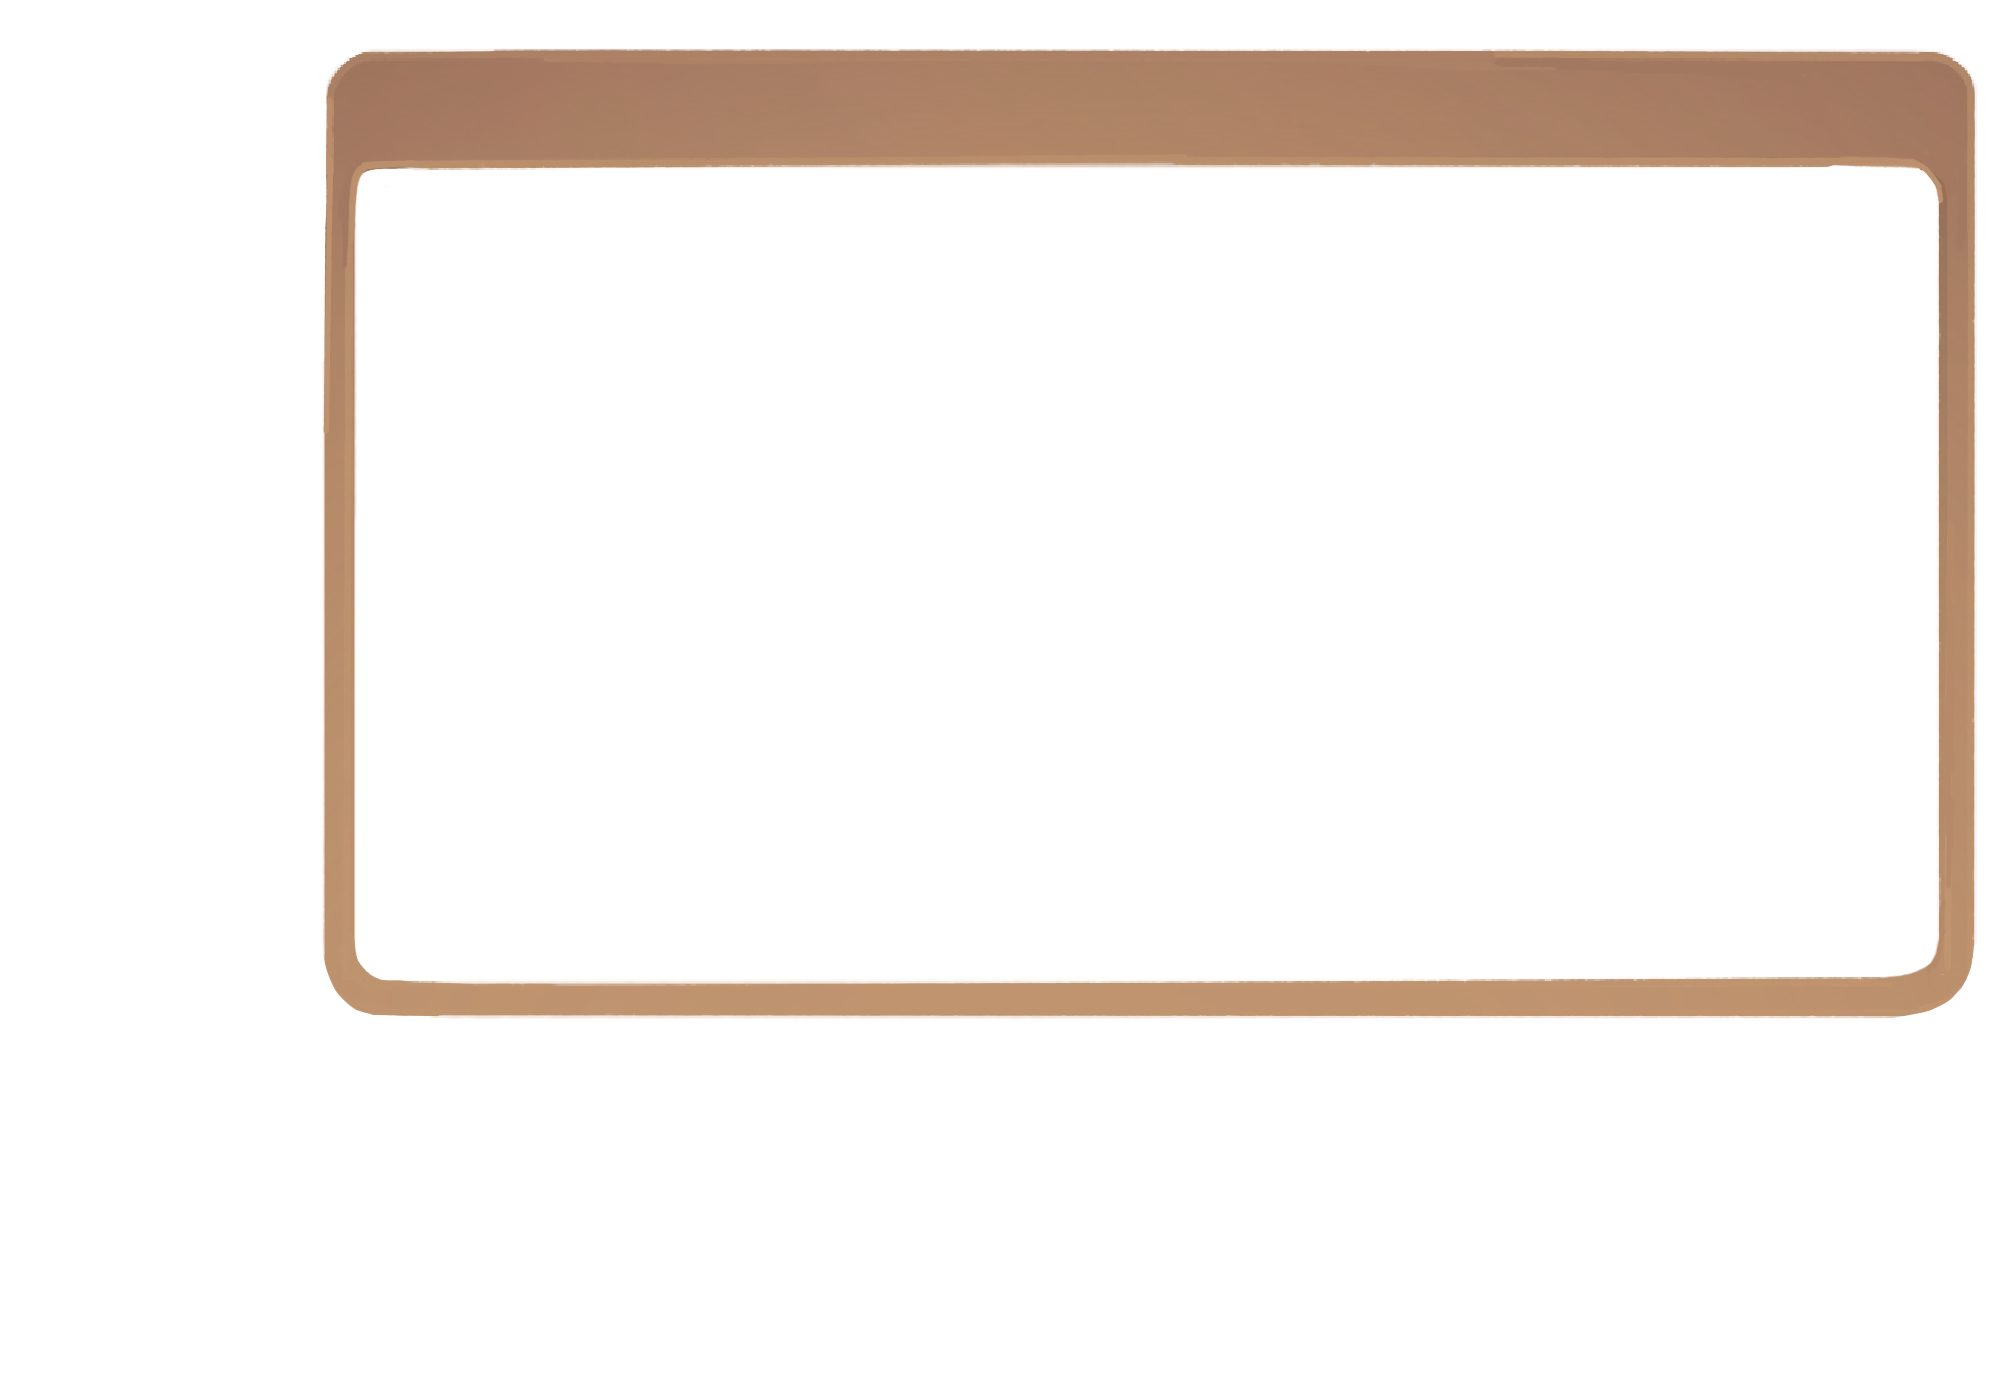
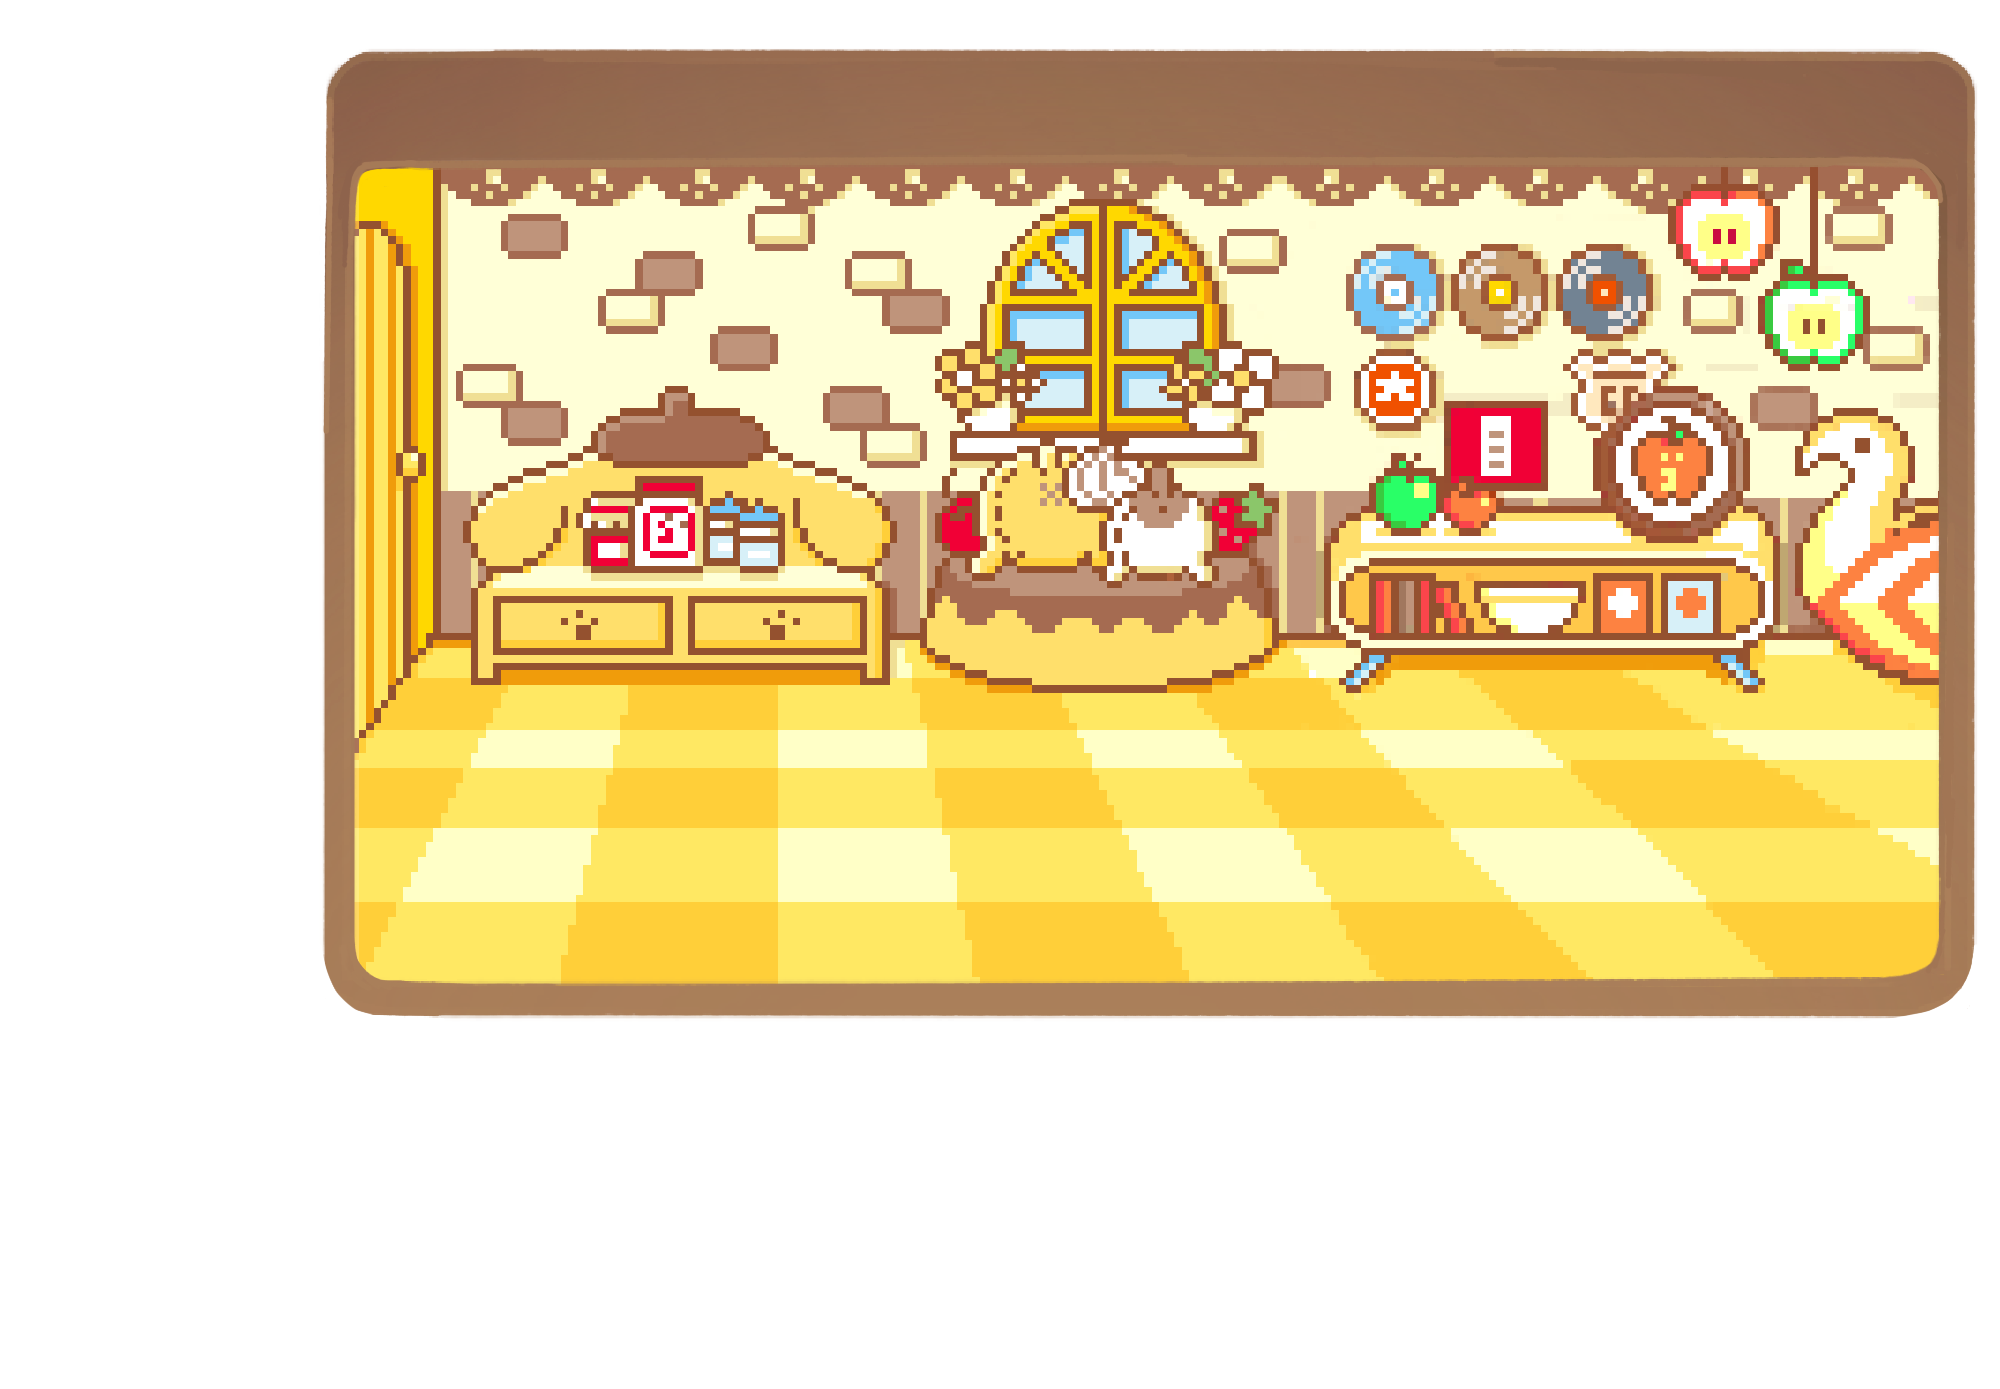
shop has been made, slight tweak to ingame screen

diff --git a/src/Shop.java b/src/Shop.java
@@ -1,5 +1,127 @@
-//import javax.swing.*;
-//
-//public class Shop extends JLayeredPane {
-//}
-////
+package src;
+
+import javax.swing.*;
+import java.awt.*;
+import java.awt.event.ActionEvent;
+import java.awt.event.ActionListener;
+
+public class Shop extends JLayeredPane {
+    private Font customFont;
+    private CardLayout mainCardLayout;
+    private JPanel mainPanel;
+    private CardLayout shopCardLayout;
+    private JPanel shopPanel;
+
+    public Shop(Font customFont, CardLayout mainCardLayout, JPanel mainPanel) {
+        this.customFont = customFont;
+        this.mainCardLayout = mainCardLayout;
+        this.mainPanel = mainPanel;
+        setPreferredSize(new Dimension(1080, 750));
+
+        setupBackground();
+
+        this.shopCardLayout = new CardLayout();
+        this.shopPanel = new JPanel(shopCardLayout);
+        shopPanel.setOpaque(false); // Make transparent
+        shopPanel.setBounds(0, 0, 1080, 750);
+        add(shopPanel, Integer.valueOf(2)); // Content above background
+
+        JLayeredPane page1 = createShopPage1();
+        JLayeredPane page2 = createShopPage2();
+
+        shopPanel.add(page1, "Page 1");
+        shopPanel.add(page2, "Page 2");
+
+        shopCardLayout.show(shopPanel, "Page 1");
+
+        JButton homeButton = MainScreen.buttonCreate(800, 50, 192, 64, "resources/home_button.png", "resources/home_button_clicked.png", "InGame");
+        homeButton.addActionListener(e -> {
+            resetToFirstPage();
+            mainCardLayout.show(mainPanel, "InGame");
+        });
+        add(homeButton, Integer.valueOf(3));
+    }
+
+    private void setupBackground() {
+        // background grid
+        ImageIcon background = new ImageIcon("resources/grid.png");
+        JLabel backgroundLabel = new JLabel(background);
+        backgroundLabel.setBounds(0, 0, 1080, 750);
+        add(backgroundLabel, Integer.valueOf(0));
+
+        // shop bg
+        ImageIcon shopBG = new ImageIcon("resources/shop_bg.png");
+        JLabel bgLabel = new JLabel(shopBG);
+        bgLabel.setBounds(0, -15, 1080, 750);
+        add(bgLabel, Integer.valueOf(1));
+    }
+
+    private JLayeredPane createShopPage1() {
+        JLayeredPane page = new JLayeredPane();
+        page.setPreferredSize(new Dimension(1080, 750));
+        page.setOpaque(false);
+
+        JButton item1 = createShopItem("resources/item_image.png", 200, 130);
+        page.add(item1, Integer.valueOf(2));
+
+        JButton item2 = createShopItem("resources/item_image.png", 460,130);
+        page.add(item2, Integer.valueOf(2));
+
+        JButton item3 = createShopItem("resources/item_image.png", 720, 130);
+        page.add(item3, Integer.valueOf(2));
+
+        JButton item4 = createShopItem("resources/item_image.png", 200, 370);
+        page.add(item4, Integer.valueOf(2));
+
+        JButton item5 = createShopItem("resources/item_image.png", 460, 370);
+        page.add(item5, Integer.valueOf(2));
+
+        JButton item6 = createShopItem("resources/item_image.png", 720, 370);
+        page.add(item6, Integer.valueOf(2));
+
+        JButton nextPage = MainScreen.buttonCreate(700, 620, 28, 28, "resources/next_page.png", "resources/next_page.png", "");
+        nextPage.addActionListener(e -> shopCardLayout.show(shopPanel, "Page 2"));
+        page.add(nextPage, Integer.valueOf(2));
+
+        return page;
+    }
+
+    private JLayeredPane createShopPage2() {
+        JLayeredPane page = new JLayeredPane();
+        page.setPreferredSize(new Dimension(1080, 750));
+
+        // Different items for page 2
+        JButton item7 = createShopItem("resources/item_image2.png", 200, 130);
+        page.add(item7, Integer.valueOf(1));
+
+        JButton item8 = createShopItem("resources/item_image2.png", 460,130);
+        page.add(item8, Integer.valueOf(1));
+
+        JButton item9 = createShopItem("resources/item_image2.png", 720, 130);
+        page.add(item9, Integer.valueOf(1));
+
+        JButton prevPage = MainScreen.buttonCreate(100, 650, 28, 28, "resources/prev_page.png", "resources/prev_page.png", "");
+        prevPage.addActionListener(e -> shopCardLayout.show(shopPanel, "Page 1"));
+        page.add(prevPage, Integer.valueOf(1));
+
+        JButton homeButton = MainScreen.buttonCreate(800, 50, 192, 64, "resources/home_button.png", "resources/home_button_clicked.png", "InGame");
+        homeButton.addActionListener(e -> mainCardLayout.show(mainPanel, "InGame"));
+        page.add(homeButton, Integer.valueOf(1));
+
+        return page;
+    }
+
+    private JButton createShopItem(String imagePath, int x, int y) {
+        ImageIcon icon = new ImageIcon(imagePath);
+        JButton button = new JButton(icon);
+        button.setBounds(x, y, icon.getIconWidth(), icon.getIconHeight());
+        button.setBorderPainted(false);
+        button.setContentAreaFilled(false);
+        return button;
+    }
+
+    public void resetToFirstPage() {
+        shopCardLayout.show(shopPanel, "Page 1");
+    }
+
+}

diff --git a/src/InGameScreen.java b/src/InGameScreen.java
@@ -12,7 +12,6 @@ public class InGameScreen extends JLayeredPane {
     private CardLayout cardLayout;  // Remove static
     private JPanel mainPanel;
 
-    // define variable for the height of the bar
     private JProgressBar HealthProgressBar;
     private JProgressBar SleepProgressBar;
     private JProgressBar HappinessProgressBar;
@@ -35,8 +34,6 @@ public class InGameScreen extends JLayeredPane {
         setBackground();
         this.pet = gameData.getPet();
         this.gameData = gameData;
-
-
 
 
         // Create and position progress bar for health
@@ -115,18 +112,6 @@ public class InGameScreen extends JLayeredPane {
         //Place bar below the graphics
         add(HappinessProgressBar, Integer.valueOf(1));
         //Finished Health Progress bar
-
-
-
-
-
-
-
-
-
-
-
-
 
 
         healthBars();
@@ -225,7 +210,7 @@ public class InGameScreen extends JLayeredPane {
         add(backgroundLabel, Integer.valueOf(0));
 
         // actual file thing
-        ImageIcon inGameWindow = new ImageIcon("resources/ingamescreen_dark.png");
+        ImageIcon inGameWindow = new ImageIcon("resources/ingamescreen.png");
         Image scaledWindow = inGameWindow.getImage().getScaledInstance(1080, 750, Image.SCALE_SMOOTH);
         ImageIcon scaledWindowIcon = new ImageIcon(scaledWindow);
 
@@ -251,8 +236,6 @@ public class InGameScreen extends JLayeredPane {
             JOptionPane.showMessageDialog(this, "✅ Game saved!", "Save", JOptionPane.INFORMATION_MESSAGE);
         });
 
-
-
         // load button
         JButton loadButton = MainScreen.buttonCreate(90, 15, 50, 50, "resources/save_load_1.png", "resources/save_load_clicked_1.png", "Load");
         ImageIcon loadIcon = new ImageIcon("resources/load_button.png");
@@ -261,9 +244,6 @@ public class InGameScreen extends JLayeredPane {
         add(loadIconLabel,Integer.valueOf(3));
         add(loadButton, Integer.valueOf(2));
 
-        // command buttons:
-        JButton playButton = MainScreen.buttonCreate(70,70, 116, 75, "resources/command_button_scaled.png", "resources/play_button_clicked.png", "");
-        add(playButton, Integer.valueOf(3));
     }
 
     private void healthBars(){
@@ -288,8 +268,19 @@ public class InGameScreen extends JLayeredPane {
         add(happinessBarLabel, Integer.valueOf(2));
     }
 
-    private void commandButtons(){
-        JButton shopButton = MainScreen.buttonCreate(70, 500,128,128, "resources/command_button.png", "resources/command_button_clicked.png", "InGame");
+    private void commandButtons() {
+        JButton shopButton = MainScreen.buttonCreate(30, 550, 128, 128, "resources/command_button.png", "resources/command_button_clicked.png", "Shop");
+        shopButton.removeActionListener(shopButton.getActionListeners()[0]);
+        shopButton.addActionListener(e -> {
+            for (Component comp : mainPanel.getComponents()) {
+                if (comp instanceof Shop) {
+                    ((Shop)comp).resetToFirstPage(); // Reset to first page
+                    break;
+                }
+            }
+            cardLayout.show(mainPanel, "Shop"); // Then show the shop
+        });
+
         add(shopButton, Integer.valueOf(2));
     }
 

diff --git a/src/LoadScreen.java b/src/LoadScreen.java
@@ -10,8 +10,7 @@ import java.io.File;
 public class LoadScreen extends JLayeredPane {
     private Font customFont;
     private static final String SAVE_DIR = "saves/";
-    private static final String BUTTON_IMG = "resources/load_file.png";
-    private static final String BUTTON_IMG_CLICKED = "resources/load_file_clicked.png";
+    private static final String BUTTON_IMG = "resources/load_file_clicked.png";
     private static final int BUTTON_WIDTH = 580;
     private static final int BUTTON_HEIGHT = 100;
 
@@ -61,8 +60,6 @@ public class LoadScreen extends JLayeredPane {
 
                 //Load and scale images
                 ImageIcon defaultIcon = scaleImageIcon(BUTTON_IMG, 798 ,  138 );
-                ImageIcon clickedIcon = scaleImageIcon(BUTTON_IMG_CLICKED, 798 ,  138);
-
 
                 // Declare final variable to avoid scope issue
                 final JButton saveButton = new JButton(defaultIcon);
@@ -85,11 +82,6 @@ public class LoadScreen extends JLayeredPane {
 
                 // Change button appearance when clicked
                 saveButton.addMouseListener(new MouseAdapter() {
-                    @Override
-                    public void mousePressed(MouseEvent e) {
-                        saveButton.setIcon(clickedIcon);
-                    }
-
                     @Override
                     public void mouseReleased(MouseEvent e) {
                         saveButton.setIcon(defaultIcon);
@@ -131,10 +123,6 @@ public class LoadScreen extends JLayeredPane {
     private void switchToInGameScreen(GameData gameData) {
         MainScreen.showInGameScreen(gameData);
     }
-
-
-
-
 
 }
 

diff --git a/src/MainScreen.java b/src/MainScreen.java
@@ -54,6 +54,7 @@ public class MainScreen extends JFrame {
         JLayeredPane loadScreen = new LoadScreen(customFont, mainPanel, cardLayout);
         JLayeredPane creditScreen = new CreditScreen(customFont);
         //InGameScreen inGameScreen = new InGameScreen(customFont, cardLayout, mainPanel);
+        JLayeredPane shopScreen = new Shop(customFont, cardLayout, mainPanel);
 
         // add screens to the main panel
         mainPanel.add(homeScreen, "Home");
@@ -62,6 +63,7 @@ public class MainScreen extends JFrame {
 //        mainPanel.add(loadScreen, "Load");
         mainPanel.add(creditScreen, "Credit");
         //mainPanel.add(inGameScreen, "InGame");
+        mainPanel.add(shopScreen, "Shop");
 
         //ATTEMPTED TO ADD MOHAMMED-KAM
         parentalControl = new ParentalControl();

diff --git a/src/NewGameScreen.java b/src/NewGameScreen.java
@@ -35,7 +35,6 @@ public class NewGameScreen extends JLayeredPane {
 
         // Home button (uses main navigation)
         JButton homeButton = MainScreen.buttonCreate(20, 10, 192, 64, "resources/white_button.png", "resources/white_button_clicked.png", "Home");
-        homeButton.addActionListener(e -> mainCardLayout.show(mainPanel, "Home"));
         add(homeButton, Integer.valueOf(3));
 
         setVisible(true);
